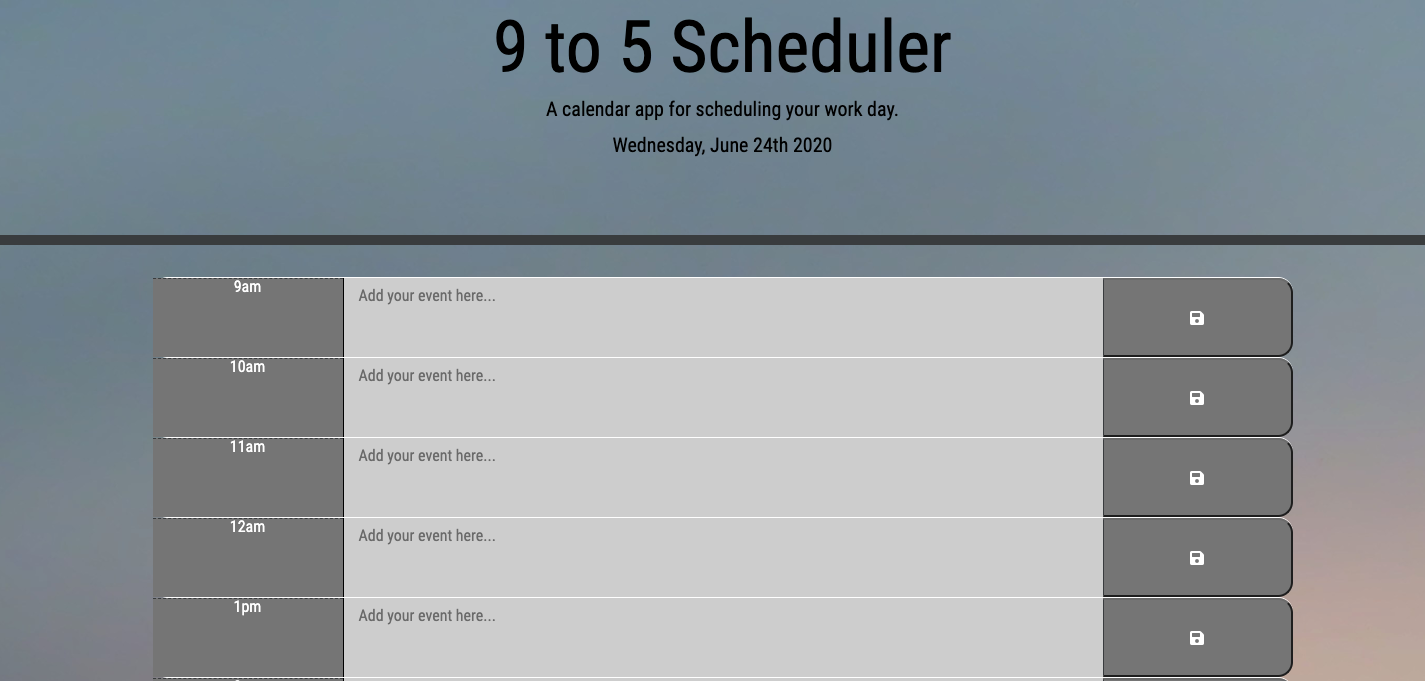
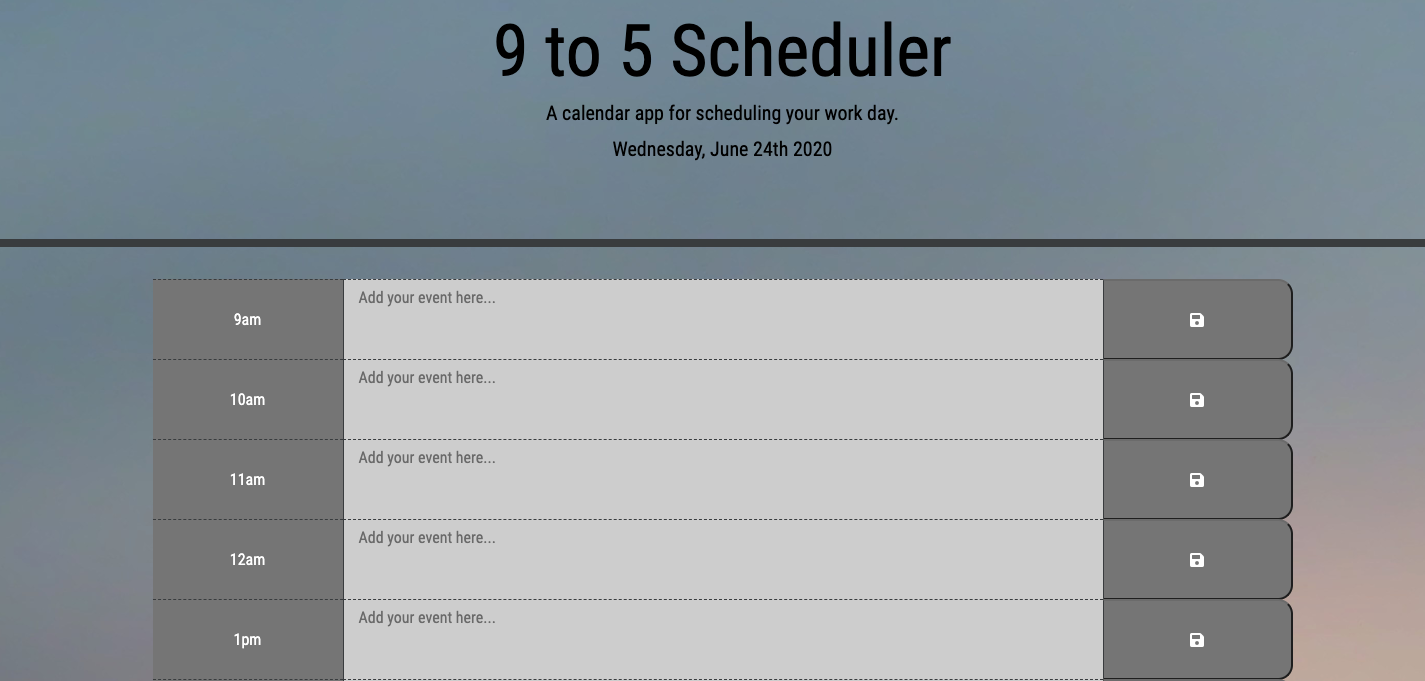
CSS, JS and MD Updates

diff --git a/script.js b/script.js
@@ -4,21 +4,19 @@ var CurrentDay = moment().format();
 function getLocalStorage(key) {
     let value = localStorage.getItem(key);
     if (value) {
-        console.log('about to update', key, 'with this from local S', value)
         $(`#text${key}`).text(value);
     }
 }
 // function for currentday
 $(document).ready(function () {
     $("#currentDay").text(moment().format("dddd, MMMM Do YYYY"));
-    console.log('current time hour!!', moment().hours())
     var currentHour = moment().hours()
     for (let i = 9; i < 18; i++) {
 
         // create a row
         var row = $(`<div data-time=${i} id='${i}' class="row time-block"></div>`);
 
-        // create a column
+        // column 1
         var col1 = $('<div class="col-sm-2 hour">' + i + 'am' + '</div>');
 
         if (i > 12) {
@@ -27,7 +25,7 @@ $(document).ready(function () {
             col1.text(newDisplay)
         }
 
-        //create column 2
+        // column 2
         var col2 = $(`<textarea id=text${i} class="description col-sm-8" placeholder="Add your event here..."></textarea>`);
         if (i == currentHour) {
             col2.addClass("present");
@@ -36,7 +34,7 @@ $(document).ready(function () {
         } else if (currentHour < i) {
             col2.addClass('future')
         }
-        //create column 3
+        // column 3
         var col3 = $(`<button id=${i}  class="saveBtn col-sm-2 fas fa-save"></button>`)
 
         // append col to row
@@ -49,12 +47,11 @@ $(document).ready(function () {
 
         getLocalStorage(i);
     }
-        //save button
+        // save button
         var saveBtn = $('.saveBtn');
         saveBtn.on('click', function () {
         let eventId = $(this).attr('id');
         let eventText = $(this).siblings('.description').val();
-        console.log('about to save tolocal storage!', eventId, eventText)
         localStorage.setItem(eventId, eventText);
     });
 

diff --git a/style.css b/style.css
@@ -13,7 +13,7 @@ body {
     border: none;
     resize: none;
     color: #000000;
-    border-left: 1px solid black;
+    border-left: 1px solid #414447;
     padding: 10px;
   }
   
@@ -22,7 +22,7 @@ body {
     background-color: transparent;
     color: black;
     border-radius: 0;
-    border-bottom: 10px solid #414447;
+    border-bottom: 8px solid #414447;
   }
   
   .description{
@@ -37,10 +37,10 @@ body {
   .row {
     white-space: pre-wrap;
     height: 80px;
-    border-top: 1px solid white;;
   }
   
   .hour {
+    line-height: 80px;
     background-color: grey;
     color: white; 
     border-top: 1px dashed #414447;
@@ -49,16 +49,19 @@ body {
   .past {
     background-color: #d3d3d3;
     color: #414447;
+    border-top: 1px dashed #414447;
   }
   
   .present {
     background-color: #7095b3;
     color: #414447;
+    border-top: 1px dashed #414447;
   }
   
   .future {
     background-color: #e4f0ad;
     color: #414447;
+    border-top: 1px dashed #414447;
   }
   
   .saveBtn {

diff --git a/README.md b/README.md
@@ -2,9 +2,9 @@
 
 Launch site: https://cmanthou.github.io/5.Work-Day-Scheduler/
 
-Using Javascript and APIs a quiz game was created.  A timer is initiated set at 75 seconds and during that time, the user is asked 5 multiple choice questions.  Points are added for correct answers, but time is deducted (in 10 second incraments) for incorrect answers.  At the end of the quiz, scores are logged onto a high-score page and marked by user submitted initials.
+Using Javascript, JQuery and APIs a Work Day Scheduler was created.  Events can be entered by hour and saved to local storage.  Current, Past and Future hour blocks are highlighted in different colors to help the user orient what time slots are current, past and future when selecting times to enter events. 
 
-Used normalize.css (v8.0.1) to make browsers render all elements more consistently and in line with modern standards.  Code pulled from https://necolas.github.io/normalize.css/
+The Moment.js (https://momentjs.com/) library, Bootstrap (https://getbootsrap.com/) CSS code and Google Fonts (https://fonts.google.com/) library were utilized in writing this code.
 
 Screenshot of site: 
 <img src = "assets/Screen_Shot.png"/>
